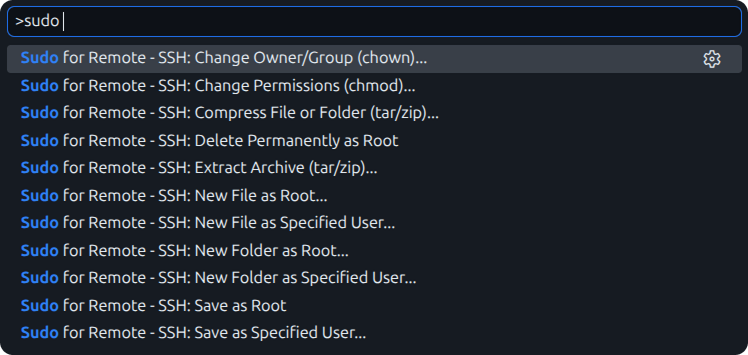
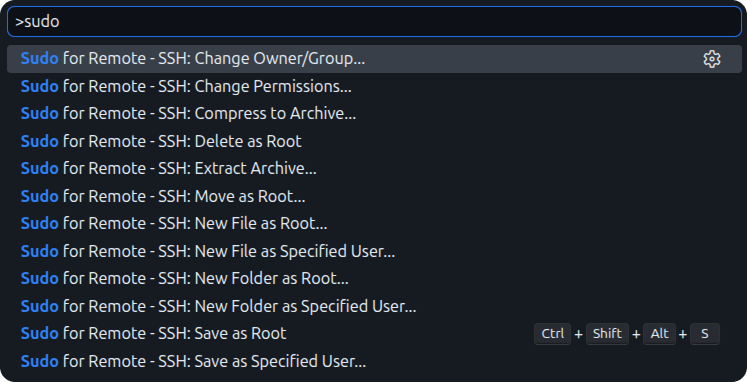
1.4.0

diff --git a/extension.js b/extension.js
@@ -75,8 +75,13 @@ const withProgress = async (title, operation) => {
     );
 };
 
+// ============================================================================
+// HELPER FUNCTIONS FOR SUDO OPERATIONS
+// ============================================================================
+
 /**
  * Creates a promise wrapper for sudo operations with timeout and password handling
+ * Eliminates code duplication across sudo functions
  */
 const createSudoPromise = (sudoCommand, additionalArgs, operationName) => {
     const timeout = getTimeout();
@@ -283,6 +288,26 @@ const sudoWriteFile = async (filename, content, user) => {
             }
         });
     });
+};
+
+/**
+ * Move files/folders with sudo
+ * @param {string[]} targetPaths
+ * @param {string} destPath
+ * @param {string} user
+ * @returns {Promise<void>}
+ */
+const sudoMove = async (targetPaths, destPath, user) => {
+    const sudoCommand = getSudoCommand();
+    const userArgs = user === "root" ? [] : ["-u", user];
+
+    log(`Moving ${targetPaths.length} item(s) to ${destPath} as user: ${user}`, "DEBUG");
+
+    return createSudoPromise(
+        sudoCommand,
+        [...userArgs, "mv", ...targetPaths, destPath],
+        `Move ${targetPaths.length > 1 ? targetPaths.length + " items" : "item"}`
+    );
 };
 
 /**
@@ -652,7 +677,111 @@ exports.activate = (context) => {
         })
     );
 
-    // Command 7: Delete File(s) or Folder(s)
+    // Command 7: Move File(s) or Folder(s) as Root
+    context.subscriptions.push(
+        vscode.commands.registerCommand("remote-ssh-sudo.move", async (uri, selectedUris) => {
+            try {
+                let urisToMove = [];
+
+                if (selectedUris && Array.isArray(selectedUris) && selectedUris.length > 0) {
+                    urisToMove = selectedUris;
+                } else if (uri) {
+                    urisToMove = [uri];
+                } else if (vscode.window.activeTextEditor) {
+                    urisToMove = [vscode.window.activeTextEditor.document.uri];
+                }
+
+                urisToMove = urisToMove.filter((u) => u.scheme === "file");
+
+                if (urisToMove.length === 0) {
+                    vscode.window.showErrorMessage(`${PREFIX} No file or folder selected to move.`);
+                    return;
+                }
+
+                const targetPaths = urisToMove.map((u) => u.fsPath);
+                const moveMessage =
+                    targetPaths.length === 1 ? `'${path.basename(targetPaths[0])}'` : `${targetPaths.length} items`;
+
+                // Default Path: Try to get the workspace folder, or fallback to the file's parent folder
+                let defaultDestPath = "";
+                const activeWorkspace = vscode.workspace.getWorkspaceFolder(urisToMove[0]);
+                if (activeWorkspace) {
+                    defaultDestPath = activeWorkspace.uri.fsPath + path.sep;
+                } else {
+                    defaultDestPath = path.dirname(targetPaths[0]) + path.sep;
+                }
+
+                // Ask for destination
+                const destPath = await vscode.window.showInputBox({
+                    prompt: `Move ${moveMessage} to (folder will be created if missing):`,
+                    value: defaultDestPath,
+                    valueSelection: [defaultDestPath.length, defaultDestPath.length],
+                    ignoreFocusOut: true
+                });
+
+                if (!destPath) return;
+
+                // Validate destination is not empty
+                if (!destPath.trim()) {
+                    vscode.window.showErrorMessage(`${PREFIX} Destination path cannot be empty.`);
+                    return;
+                }
+
+                const confirm = await vscode.window.showWarningMessage(
+                    `${PREFIX} Move ${moveMessage} to '${destPath}'?`,
+                    { modal: true },
+                    "Move"
+                );
+
+                if (confirm !== "Move") return;
+
+                const itemCount = targetPaths.length;
+
+                await withProgress(
+                    `Moving ${itemCount} item${itemCount > 1 ? "s" : ""} to ${path.basename(destPath)}...`,
+                    async (progress) => {
+                        
+                        // 1. Automatically create the destination folder if it doesn't exist
+                        progress.report({ message: `Preparing destination directory...` });
+                        try {
+                            await sudoExec(["mkdir", "-p", destPath]);
+                        } catch (err) {
+                            vscode.window.showErrorMessage(
+                                `${PREFIX} Failed to create destination directory: ${err.message}`
+                            );
+                            return;
+                        }
+
+                        // 2. Move the files
+                        progress.report({ message: `Moving files...` });
+                        await sudoMove(targetPaths, destPath, "root");
+
+                        progress.report({ message: `Completed!`, increment: 100 });
+                        vscode.window.showInformationMessage(
+                            `${PREFIX} Successfully moved ${moveMessage}`
+                        );
+
+                        // 3. Close editors if files were moved
+                        for (const editor of vscode.window.visibleTextEditors) {
+                            for (const targetPath of targetPaths) {
+                                if (editor.document.uri.fsPath === targetPath || 
+                                    editor.document.uri.fsPath.startsWith(targetPath + path.sep)) {
+                                    await vscode.window.showTextDocument(editor.document);
+                                    await vscode.commands.executeCommand("workbench.action.closeActiveEditor");
+                                }
+                            }
+                        }
+                    }
+                );
+            } catch (err) {
+                if (!(err instanceof vscode.CancellationError)) {
+                    vscode.window.showErrorMessage(`${PREFIX} ${err.message}`);
+                }
+            }
+        })
+    );
+
+    // Command 8: Delete File(s) or Folder(s)
     context.subscriptions.push(
         vscode.commands.registerCommand("remote-ssh-sudo.delete", async (uri, selectedUris) => {
             try {
@@ -706,7 +835,7 @@ exports.activate = (context) => {
         })
     );
 
-    // Command 8: Change Permissions (chmod)
+    // Command 9: Change Permissions (chmod)
     context.subscriptions.push(
         vscode.commands.registerCommand("remote-ssh-sudo.chmod", async (uri, selectedUris) => {
             try {
@@ -797,7 +926,7 @@ exports.activate = (context) => {
         })
     );
 
-    // Command 9: Change Owner/Group (chown)
+    // Command 10: Change Owner/Group (chown)
     context.subscriptions.push(
         vscode.commands.registerCommand("remote-ssh-sudo.chown", async (uri, selectedUris) => {
             try {
@@ -877,7 +1006,7 @@ exports.activate = (context) => {
         })
     );
 
-    // Command 10: Compress File(s) or Folder(s)
+    // Command 11: Compress File(s) or Folder(s)
     context.subscriptions.push(
         vscode.commands.registerCommand("remote-ssh-sudo.compress", async (uri, selectedUris) => {
             try {
@@ -989,7 +1118,7 @@ exports.activate = (context) => {
         })
     );
 
-    // Command 11: Extract Archive
+    // Command 12: Extract Archive
     context.subscriptions.push(
         vscode.commands.registerCommand("remote-ssh-sudo.extract", async (uri) => {
             try {

diff --git a/README.md b/README.md
@@ -1,6 +1,6 @@
 # Sudo for Remote - SSH 
 
-Add, edit, save, delete, compress, extract, and change permissions/ownership of protected files and folders with sudo/root privileges while using the VS Code Remote - SSH extension.
+Add, edit, save, delete, move, compress, extract, and change permissions/ownership of protected files and folders with sudo/root privileges while using the VS Code Remote - SSH extension.
 
 If you frequently work on remote Linux servers and need to edit system configuration files (like `/etc/nginx/nginx.conf` or `/etc/fstab`), or fix web server file ownership (like `www-data`), this extension saves you from having to drop into the terminal. You can manage protected files, directories, and their permissions directly from the comfort of the VS Code editor!
 
@@ -10,16 +10,18 @@ If you frequently work on remote Linux servers and need to edit system configura
 
 This extension adds several commands to VS Code, allowing you to bypass permission denied errors seamlessly:
 
-*   **Save as Root / Specified User:** Save the currently open protected file using `sudo`. Icons appear in the **Editor Actions Title bar** for quick access!
+* **Save as Root / Specified User:** Save the currently open protected file using `sudo`. Icons appear in the **Editor Actions Title bar** for quick access! (Default Hotkey: `Ctrl+Shift+Alt+S`)
 
-![Screenshot](https://raw.githubusercontent.com/rezbouchabou/remote-ssh-sudo/main/images/editor-actions.png)
+![Screenshot](https://raw.githubusercontent.com/rezbouchabou/remote-ssh-sudo/main/images/editor.png)
 
-*   **New File / Folder as Root / Specified User:** Create new files or nested directories anywhere on the remote file system.
-*   **Delete Permanently as Root:** Permanently delete protected files or directories (runs `rm -rf`). Supports multi-select!
-*   **Change Permissions (chmod):** Quickly apply new numeric or symbolic permissions to any file or folder.
-*   **Change Owner/Group (chown):** Easily reassign the user and group ownership of a file or folder.
-*   **Compress & Extract:** Instantly zip/unzip or tar/untar files and directories directly from the context menu.
-*   **Recursive Operations:** Automatically detects if you are modifying a folder's permissions or ownership and interactively asks if you want to apply the changes recursively (`-R`).
+* **Multi-Selection Support:** Apply actions (Delete, Compress, Chmod, Chown, Move) to dozens of files and folders at the exact same time.
+* **Move as Root:** Move protected files or directories with smart path prediction and automatic destination folder creation.
+* **New File / Folder as Root / Specified User:** Create new files or nested directories anywhere on the remote file system.
+* **Delete as Root:** Permanently delete protected files or directories (runs `rm -rf`). 
+* **Change Permissions (chmod):** Quickly apply new numeric or symbolic permissions to any file or folder.
+* **Change Owner/Group (chown):** Easily reassign the user and group ownership of a file or folder.
+* **Compress & Extract:** Instantly zip/unzip or tar/untar files directly from the context menu with visual progress bars.
+* **Recursive Operations:** Automatically detects if you are modifying a folder's permissions or ownership and interactively asks if you want to apply the changes recursively (`-R`).
 
 ### Explorer Context Menu Integration
 You don't need to memorize commands! You can simply right-click in the VS Code File Explorer to access the full suite of management tools.

diff --git a/CHANGELOG.md b/CHANGELOG.md
@@ -1,3 +1,7 @@
+1.4.0
+- Added "Move as Root" with smart workspace path pre-filling and automatic destination folder creation
+- Cleaned up Command Palette titles for a more native VS Code experience
+
 1.3.0
 - Added real-time progress bars for long tasks (compressing, extracting, etc.)
 - Added default keyboard shortcut (Ctrl+Shift+Alt+S) for "Save as Root"